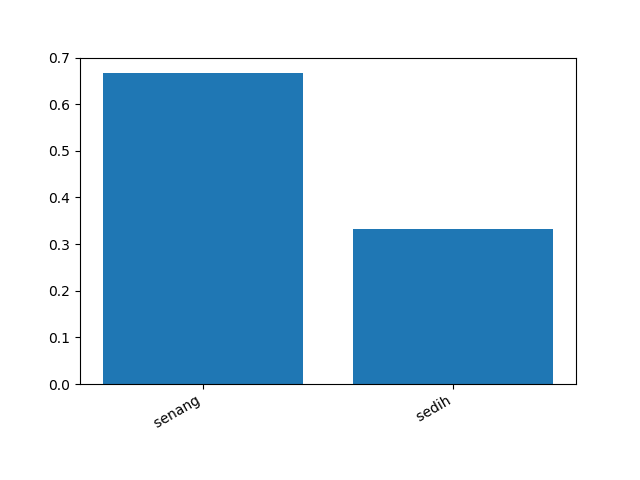
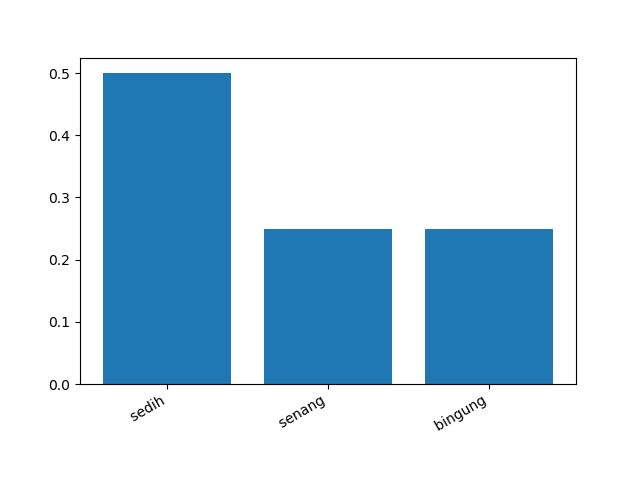
analytics revision

diff --git a/main.py b/main.py
@@ -2,11 +2,13 @@ import string
 from collections import Counter
 import pandas as pd
 import operator
+from textblob import TextBlob
 import matplotlib.pyplot as plt
 
 from collections import UserList
 import sumpy
 import numpy as np
+
 
 
 # reading text file
@@ -21,16 +23,20 @@ cleaned_text = lower_case.translate(str.maketrans('', '', string.punctuation))
 # splitting text into words
 tokenized_words = cleaned_text.split()
 
-stop_words = ["i", "me", "my", "myself", "we", "our", "ours", "ourselves", "you", "your", "yours", "yourself",
-              "yourselves", "he", "him", "his", "himself", "she", "her", "hers", "herself", "it", "its", "itself",
-              "they", "them", "their", "theirs", "themselves", "what", "which", "who", "whom", "this", "that", "these",
-              "those", "am", "is", "are", "was", "were", "be", "been", "being", "have", "has", "had", "having", "do",
-              "does", "did", "doing", "a", "an", "the", "and", "but", "if", "or", "because", "as", "until", "while",
-              "of", "at", "by", "for", "with", "about", "against", "between", "into", "through", "during", "before",
-              "after", "above", "below", "to", "from", "up", "down", "in", "out", "on", "off", "over", "under", "again",
-              "further", "then", "once", "here", "there", "when", "where", "why", "how", "all", "any", "both", "each",
-              "few", "more", "most", "other", "some", "such", "no", "nor", "not", "only", "own", "same", "so", "than",
-              "too", "very", "s", "t", "can", "will", "just", "don", "should", "now"]
+stop_words = ["saya", "kamu", "dia", "kita", "mereka", "kami", "dan", "atau", "sebaliknya", "pada", "dalam", "untuk", "dari", "kepada", "terhadap", "oleh", "tetapi", "juga", "karena","seperti"]
+
+
+
+# stop_words = ["i", "me", "my", "myself", "we", "our", "ours", "ourselves", "you", "your", "yours", "yourself",
+#               "yourselves", "he", "him", "his", "himself", "she", "her", "hers", "herself", "it", "its", "itself",
+#               "they", "them", "their", "theirs", "themselves", "what", "which", "who", "whom", "this", "that", "these",
+#               "those", "am", "is", "are", "was", "were", "be", "been", "being", "have", "has", "had", "having", "do",
+#               "does", "did", "doing", "a", "an", "the", "and", "but", "if", "or", "because", "as", "until", "while",
+#               "of", "at", "by", "for", "with", "about", "against", "between", "into", "through", "during", "before",
+#               "after", "above", "below", "to", "from", "up", "down", "in", "out", "on", "off", "over", "under", "again",
+#               "further", "then", "once", "here", "there", "when", "where", "why", "how", "all", "any", "both", "each",
+#               "few", "more", "most", "other", "some", "such", "no", "nor", "not", "only", "own", "same", "so", "than",
+#               "too", "very", "s", "t", "can", "will", "just", "don", "should", "now"]
 
 # Removing stop words from the tokenized words list
 final_words = []
@@ -56,34 +62,83 @@ with open('indoemotions.txt', 'r') as file:
         if word in final_words:
             emotion_list.append(emotion)
 
-print("Clean Text :", text)
-print("Lower Case Text :", lower_case)
-print("Tokenized Text : ", final_words)
-print("Emotions List :", emotion_list)
-# print(word)
-
-# Count Emotions
-emotion_word = Counter(emotion_list)
-count_emotion = pd.Series(emotion_word)
+    # Cleancing
+    print("Clean Text :", text)
+    print("Lower Case Text :", lower_case)
+    print("Tokenized Text : ", final_words)
+    print("Emotions List :", emotion_list)
 
 
-# Sum from Count Emotions
-sum_emotion = sum(count_emotion)
-# print(sum_emotion)
 
-# Create Calculation Emotions
-percent_emotion = (count_emotion / sum_emotion)
-print("Klasifikasi Tingkat Emosi :")
-print(percent_emotion)
-print("=========================================")
+    # Cek Value in Array emotion_list
+    if ' senang' in emotion_list:
+        print("Emosi Senang Terdeteksi")
 
-# Compare Emotions
-compare_emotion = max(percent_emotion.iteritems(), key=operator.itemgetter(1))[0]
-print("Emosi Terdeteksi :",compare_emotion)
+        # Count Emotion
+        emotion_word = Counter(emotion_list)
+        count_emotion = pd.Series(emotion_word)
 
-# Visualization Grafik Emotions
-fig, ax1 = plt.subplots()
-ax1.bar(emotion_word.keys(), percent_emotion)
-fig.autofmt_xdate()
-plt.savefig('graph.png')
-plt.show()
+        # Sum from Count Emotions
+        sum_emotion = sum(count_emotion)
+
+        # Create Calculation Emotions
+        percent_emotion = (count_emotion / sum_emotion)
+        print("Klasifikasi Tingkat Emosi :")
+        print(percent_emotion)
+        print("=========================================")
+
+        # Selecting Label Senang from Array
+        compare_emotion = percent_emotion.loc[' senang']
+        print("Kadar Emosi Senang :",compare_emotion)
+        print("=========================================")
+
+        # Visualization Grafik Emotions
+        fig, ax1 = plt.subplots()
+        ax1.bar(emotion_word.keys(), percent_emotion)
+        fig.autofmt_xdate()
+        plt.savefig('graph.png')
+        plt.show()
+
+
+    else:
+        print("Emosi Senang Tidak Terdeteksi")
+        compare_emotion = str('0')
+        print("=========================================")
+        print("Kadar Emosi Senang :",compare_emotion)
+        print("=========================================")
+
+
+
+
+
+
+        # Cek Value in Array emotion_list
+        # if not emotion_list == ['senang']:
+        #     compare_emotion = str("0")
+        #     print("Emosi Senang Terdeteksi :", compare_emotion)
+
+
+        # Count Emotiom
+        # emotion_word = Counter(emotion_list)
+        # count_emotion = pd.Series(emotion_word)
+
+        # Sum from Count Emotions
+        # sum_emotion = sum(count_emotion)
+
+        # Create Calculation Emotions
+        # percent_emotion = (count_emotion / sum_emotion)
+        # print("Klasifikasi Tingkat Emosi :")
+        # print(percent_emotion)
+        # print("=========================================")
+
+
+        # compare_emotion = max(percent_emotion.iteritems(), key=operator.itemgetter(1))
+        # print("Emosi Terdeteksi :", compare_emotion)
+        # print(percent_emotion == senang)
+
+        # Visualization Grafik Emotions
+        # fig, ax1 = plt.subplots()
+        # ax1.bar(emotion_word.keys(), percent_emotion)
+        # fig.autofmt_xdate()
+        # plt.savefig('graph.png')
+        # plt.show()
